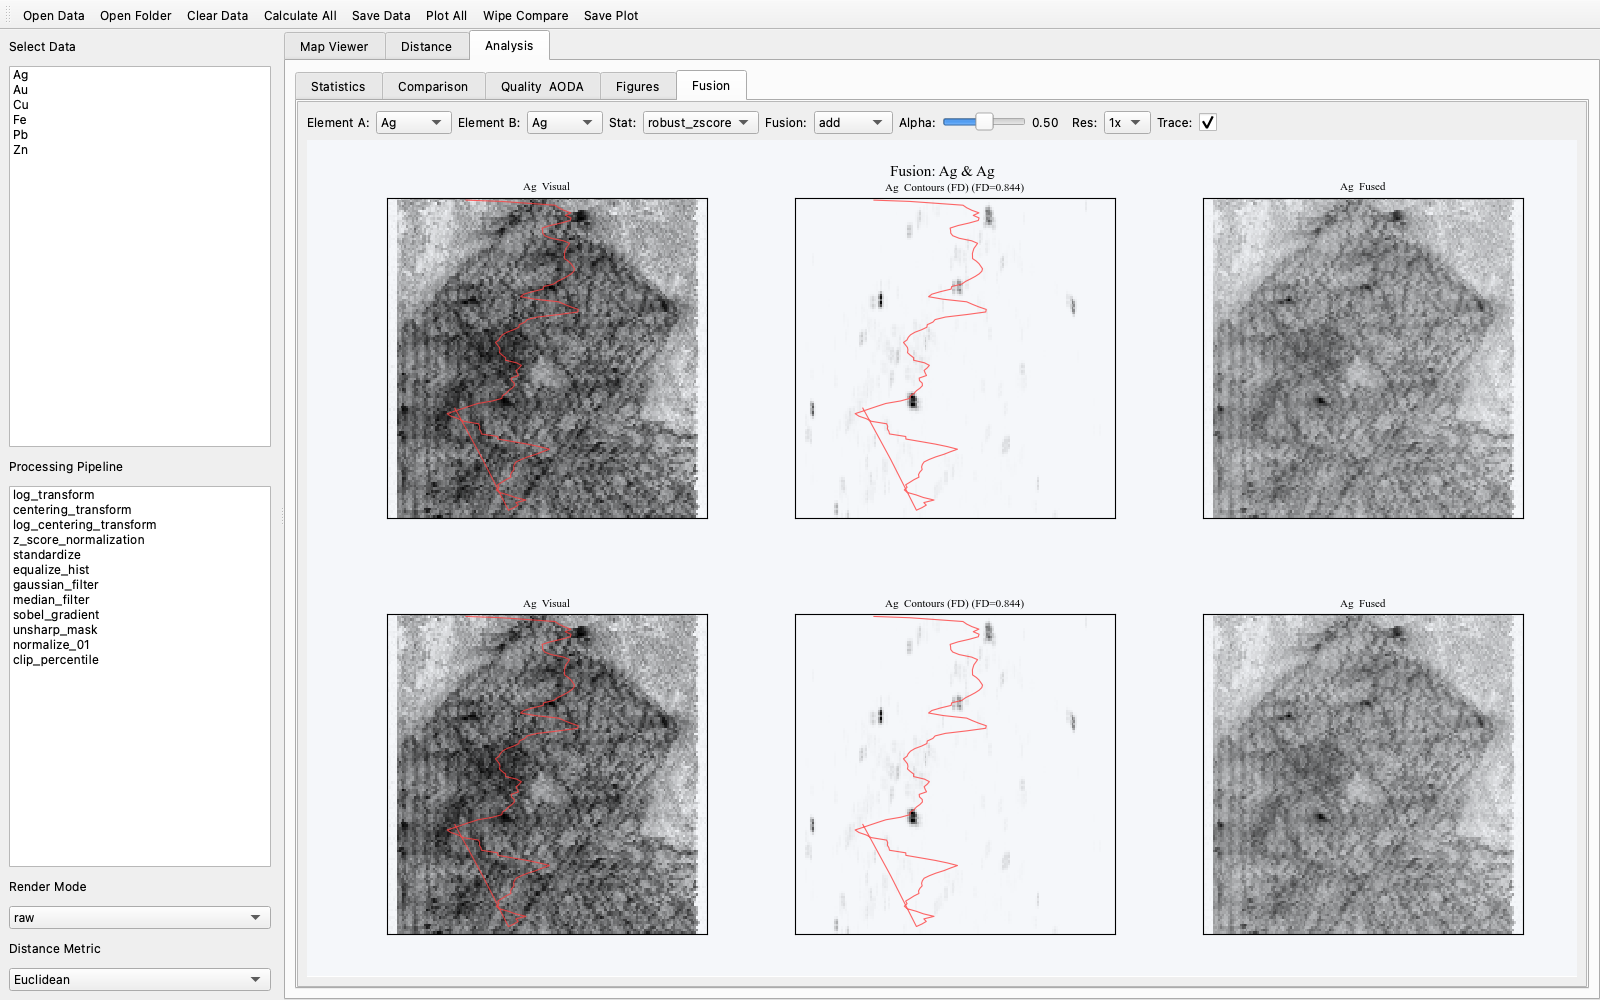
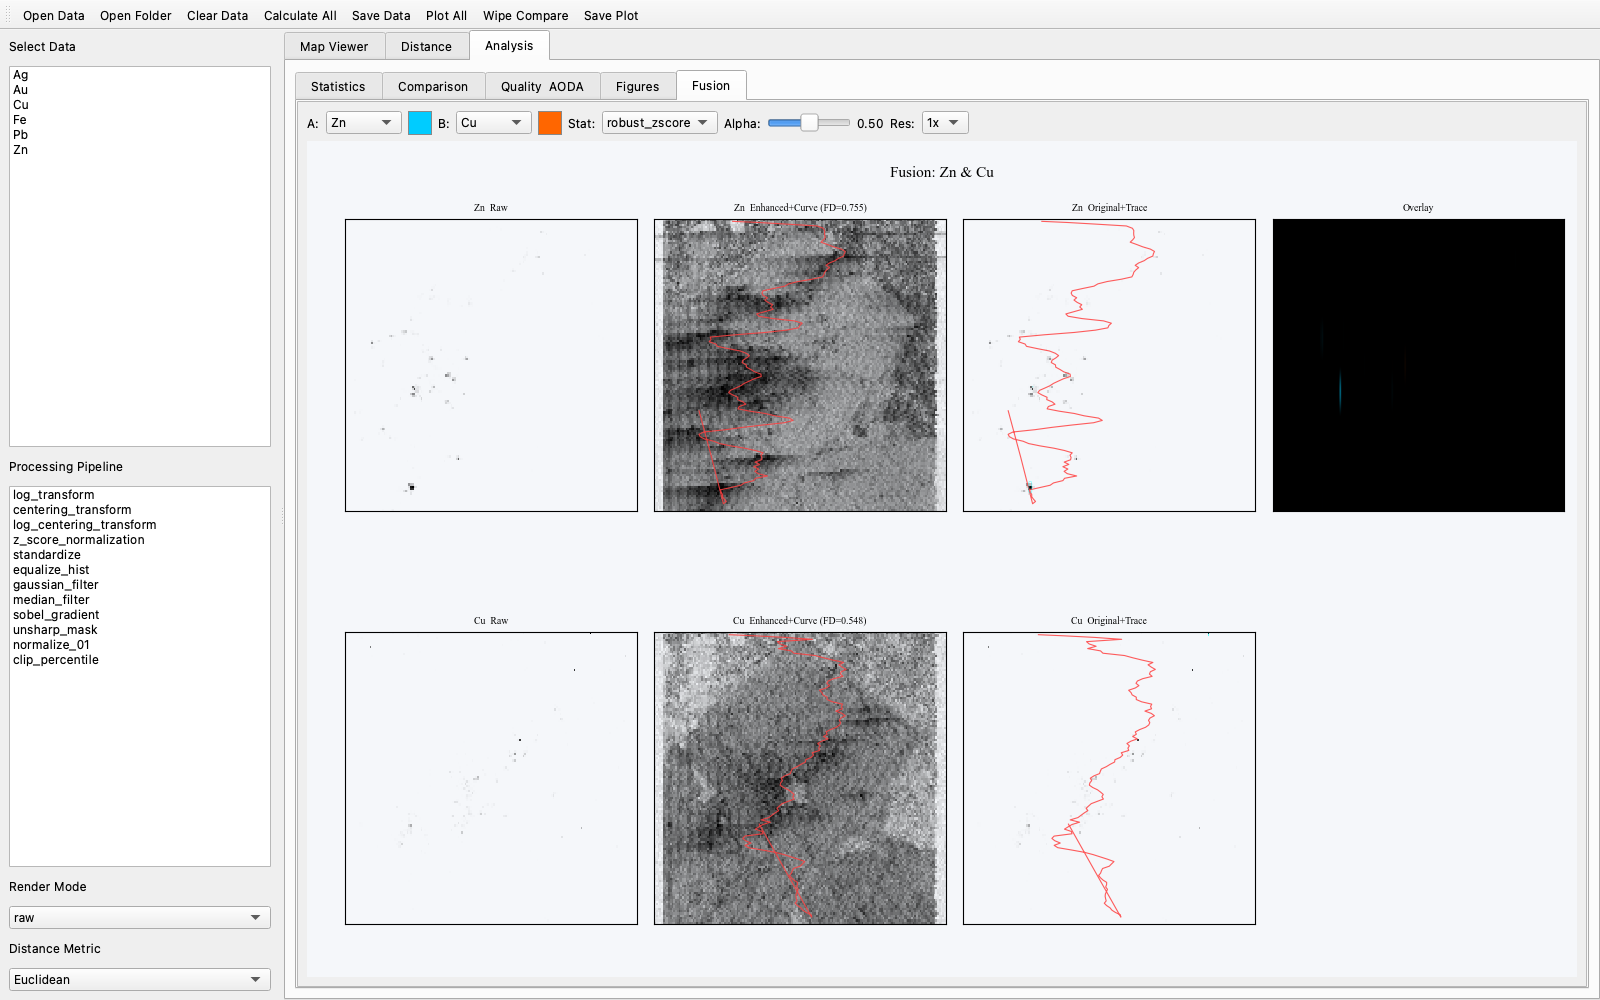
v1.6.0: Fusion 2x4 grid - Raw/Enhanced+Curve/Original+Trace+Contour/Overlay
- 4 columns: raw data / enhanced+curve / original+trace+contour / dual-element color overlay
- Color picker buttons per element (QColorDialog)
- Trajectory curve on col 1&2, contour lines on col 2
- Overlay blends both elements using selected RGB colors
- Screenshot uses Zn & Cu

diff --git a/cpsvisualizer/src/cpsvisualizer/app.py b/cpsvisualizer/src/cpsvisualizer/app.py
@@ -684,20 +684,29 @@ class CPSVisualizer(QMainWindow):
         parent.addTab(sc, 'Figures')
 
     def _build_fusion_pane(self, parent):
-        """Fusion — 2 elements × 3 panels (visual / contours / fused)
-        all square."""
+        """Fusion — 2 elements × 4 columns (raw / enhanced+curve /
+        original+trace+contour / overlay). All square."""
         sc, inner = self._scroll_pane()
         v = QVBoxLayout(inner)
-
         bar = QHBoxLayout()
-        bar.addWidget(QLabel('Element A:'))
+        bar.addWidget(QLabel('A:'))
         self._fus_pick_a = QComboBox()
         self._fus_pick_a.currentTextChanged.connect(self._on_fusion_change)
         bar.addWidget(self._fus_pick_a)
-        bar.addWidget(QLabel('Element B:'))
+        self._fus_color_a = QPushButton(' ')
+        self._fus_color_a.setFixedSize(24, 24)
+        self._fus_color_a.setStyleSheet('background-color: #00CCFF; border:1px solid #888;')
+        self._fus_color_a.clicked.connect(lambda: self._pick_fusion_color('a'))
+        bar.addWidget(self._fus_color_a)
+        bar.addWidget(QLabel('B:'))
         self._fus_pick_b = QComboBox()
         self._fus_pick_b.currentTextChanged.connect(self._on_fusion_change)
         bar.addWidget(self._fus_pick_b)
+        self._fus_color_b = QPushButton(' ')
+        self._fus_color_b.setFixedSize(24, 24)
+        self._fus_color_b.setStyleSheet('background-color: #FF6600; border:1px solid #888;')
+        self._fus_color_b.clicked.connect(lambda: self._pick_fusion_color('b'))
+        bar.addWidget(self._fus_color_b)
         bar.addWidget(QLabel('Stat:'))
         self._fus_stat = QComboBox()
         from cpsvisualizer.fusion import STAT_ENHANCE_NAMES
@@ -705,11 +714,6 @@ class CPSVisualizer(QMainWindow):
         self._fus_stat.setCurrentText('robust_zscore')
         self._fus_stat.currentTextChanged.connect(self._on_fusion_change)
         bar.addWidget(self._fus_stat)
-        bar.addWidget(QLabel('Fusion:'))
-        self._fus_mode = QComboBox()
-        self._fus_mode.addItems(['add', 'multiply', 'exp'])
-        self._fus_mode.currentTextChanged.connect(self._on_fusion_change)
-        bar.addWidget(self._fus_mode)
         bar.addWidget(QLabel('Alpha:'))
         self._fus_alpha = QSlider(Qt.Horizontal)
         self._fus_alpha.setRange(0, 100)
@@ -720,46 +724,42 @@ class CPSVisualizer(QMainWindow):
         self._fus_alpha.valueChanged.connect(
             lambda v: self._fus_alpha_label.setText(f'{v/100:.2f}'))
         bar.addWidget(self._fus_alpha_label)
-        bar.addWidget(QLabel('  Res:'))
+        bar.addWidget(QLabel('Res:'))
         self._fus_res = QComboBox()
         self._fus_res.addItems(['1x', '2x', '4x'])
         self._fus_res.currentTextChanged.connect(self._on_fusion_change)
         bar.addWidget(self._fus_res)
-        bar.addWidget(QLabel('Trace:'))
-        self._fus_trace_cb = QCheckBox()
-        self._fus_trace_cb.setChecked(True)
-        self._fus_trace_cb.stateChanged.connect(self._on_fusion_change)
-        bar.addWidget(self._fus_trace_cb)
         bar.addStretch(1)
         v.addLayout(bar)
-
-        self._fus_canvas = FigureCanvas(Figure(figsize=(16, 12), dpi=self.dpi))
+        self._fus_canvas = FigureCanvas(Figure(figsize=(20, 12), dpi=self.dpi))
         _install_figure_export(self._fus_canvas, 'cps_fusion')
         self._fus_canvas.setSizePolicy(QSizePolicy.Expanding, QSizePolicy.Expanding)
-        self._fus_canvas.setMinimumHeight(700)
+        self._fus_canvas.setMinimumHeight(750)
         v.addWidget(self._fus_canvas)
-
         parent.addTab(sc, 'Fusion')
-
+    def _pick_fusion_color(self, which):
+        from PySide6.QtWidgets import QColorDialog
+        btn = self._fus_color_a if which == 'a' else self._fus_color_b
+        current = btn.palette().button().color()
+        color = QColorDialog.getColor(current, self, 'Pick overlay color')
+        if color.isValid():
+            btn.setStyleSheet(f'background-color: {color.name()}; border:1px solid #888;')
+            self._on_fusion_change()
     def _on_fusion_change(self):
         if self.df_name_list:
             self._fill_fusion_picks()
             self._render_fusion()
-
     def _fill_fusion_picks(self):
         for p in (self._fus_pick_a, self._fus_pick_b):
             cur = p.currentText()
-            p.blockSignals(True)
-            p.clear()
+            p.blockSignals(True); p.clear()
             p.addItems(self.df_name_list)
-            if cur in self.df_name_list:
-                p.setCurrentText(cur)
+            if cur in self.df_name_list: p.setCurrentText(cur)
             p.blockSignals(False)
         if len(self.df_name_list) >= 2 and not self._fus_pick_b.currentText():
             self._fus_pick_b.setCurrentIndex(1)
-
     def _render_fusion(self):
-        from cpsvisualizer.fusion import STAT_ENHANCE, FUSION_FUNCTIONS
+        from cpsvisualizer.fusion import STAT_ENHANCE
         from cpsvisualizer.core import log_transform, equalize_hist
         from scipy.ndimage import sobel, gaussian_filter, zoom
         na = self._fus_pick_a.currentText()
@@ -767,36 +767,33 @@ class CPSVisualizer(QMainWindow):
         if not na or not nb or na not in self.df_name_list or nb not in self.df_name_list:
             return
         zf = int(self._fus_res.currentText().replace('x', ''))
-        fm = self._fus_mode.currentText()
-        al = self._fus_alpha.value() / 100.0
         sn = self._fus_stat.currentText()
-
+        # extract colors from button style
+        import re
+        self._fus_colors = {}
+        for tag, btn in [('a', self._fus_color_a), ('b', self._fus_color_b)]:
+            m = re.search(r'#[0-9a-fA-F]{6}', btn.styleSheet())
+            self._fus_colors[tag] = m.group() if m else ('#00CCFF' if tag == 'a' else '#FF6600')
         self._fus_data = {'a': [], 'b': []}
         for tag, el in [('a', na), ('b', nb)]:
             data = self.df_list[self.df_name_list.index(el)].to_numpy().copy()
+            raw = np.nan_to_num(data.astype(float), nan=0, posinf=0, neginf=0)
+            raw = (raw - raw.min()) / (raw.max() - raw.min() + 1e-10)
             V = equalize_hist(log_transform(data))
             V = (V - V.min()) / (V.max() - V.min() + 1e-10)
-            d2 = np.nan_to_num(data.astype(float), nan=0, posinf=0, neginf=0)
-            d2 = gaussian_filter(d2, sigma=1.0)
+            d2 = gaussian_filter(np.nan_to_num(data.astype(float), nan=0, posinf=0, neginf=0), sigma=1.0)
             E = np.hypot(sobel(d2, axis=0), sobel(d2, axis=1))
             E = (E - E.min()) / (E.max() - E.min() + 1e-10)
             tx, ty, fd = self._compute_trajectory(data)
-            S = STAT_ENHANCE[sn](data.astype(np.float64))
-            S = (S - S.min()) / (S.max() - S.min() + 1e-10)
-            F = FUSION_FUNCTIONS[fm](V, S, al)
-            F = (F - F.min()) / (F.max() - F.min() + 1e-10)
             if zf > 1:
+                raw = zoom(raw, zf, order=3)
                 V = zoom(V, zf, order=3); E = zoom(E, zf, order=3)
-                F = zoom(F, zf, order=3)
-            self._fus_data[tag] = [V, E, F, tx, ty, fd, el]
+            self._fus_data[tag] = [raw, V, E, tx, ty, fd, el]
         self._render_fusion_display()
-
     def _compute_trajectory(self, data):
-        """Row-wise weighted centroid path + box-counting fractal dimension."""
         d = np.nan_to_num(np.asarray(data, dtype=float),
                           nan=0.0, posinf=0.0, neginf=0.0)
         rows, cols = d.shape
-        row_idx = np.arange(rows)
         col_weights = d.sum(axis=1)
         valid = col_weights > 0
         if valid.sum() < 3:
@@ -805,7 +802,7 @@ class CPSVisualizer(QMainWindow):
         centroid_x = np.divide(centroid_x, col_weights,
                                out=np.full_like(centroid_x, cols/2),
                                where=col_weights > 0)
-        centroid_y = row_idx.astype(float)
+        centroid_y = np.arange(rows).astype(float)
         window = max(3, int(rows * 0.05))
         kernel = np.ones(window) / window
         cx = np.convolve(centroid_x, kernel, mode='same')
@@ -832,43 +829,75 @@ class CPSVisualizer(QMainWindow):
         except Exception:
             fdim = 0.0
         return cx, cy, fdim
-
     def _render_fusion_display(self, _=None):
         if not hasattr(self, '_fus_data') or not self._fus_data.get('a'):
             return
         fig = self._fus_canvas.figure
         fig.clear(); fig.patch.set_facecolor(FIG_BG)
         from matplotlib.gridspec import GridSpec
-        gs = GridSpec(2, 3, figure=fig, wspace=0.08, hspace=0.30,
-                      left=0.04, right=0.98, top=0.93, bottom=0.05)
-        show_tr = self._fus_trace_cb.isChecked()
-        panels = ['Visual', 'Contours (FD)', 'Fused']
+        from matplotlib.colors import to_rgba
+        gs = GridSpec(2, 4, figure=fig, wspace=0.06, hspace=0.25,
+                      left=0.03, right=0.99, top=0.93, bottom=0.04)
+        cols = ['Raw', 'Enhanced+Curve', 'Original+Trace', 'Overlay']
+        colors = self._fus_colors
+        da = self._fus_data['a']; db = self._fus_data['b']
+        raw_a, raw_b = da[0], db[0]
+        mr = min(raw_a.shape[0], raw_b.shape[0])
+        mc = min(raw_a.shape[1], raw_b.shape[1])
+        ca = np.array(to_rgba(colors['a']))[:3]
+        cb = np.array(to_rgba(colors['b']))[:3]
+        overlay = np.zeros((mr, mc, 3))
+        for ch in range(3):
+            overlay[:, :, ch] = (raw_a[:mr, :mc] * ca[ch] +
+                                 raw_b[:mr, :mc] * cb[ch])
+        overlay = np.clip(overlay / overlay.max() if overlay.max() > 0 else overlay, 0, 1)
         for row_i, tag in enumerate(['a', 'b']):
-            V, E, Fu, tx, ty, fd, el = self._fus_data[tag]
-            for col_j in range(3):
+            el_raw, V, E, tx, ty, fd, el = self._fus_data[tag]
+            for col_j in range(4):
                 ax = fig.add_subplot(gs[row_i, col_j])
                 ax.set_facecolor(FIG_BG)
-                arr_disp = _downsample([V, E, Fu][col_j], 180, 180)
+                if col_j == 3:
+                    if row_i == 1:
+                        ax.axis('off'); continue
+                    from scipy.ndimage import zoom as _zoom
+                    h, w = overlay.shape[:2]
+                    z_r = min(180/h, 180/w)
+                    if z_r < 1:
+                        overlay_disp = _zoom(overlay, (z_r, z_r, 1), order=1)
+                    else:
+                        overlay_disp = overlay
+                    ax.imshow(np.clip(overlay_disp, 0, 1), aspect='auto')
+                    ax.set_aspect(_square_aspect(*overlay_disp.shape[:2]),
+                                  adjustable='box', anchor='C')
+                    ax.set_title('Overlay', fontsize=7)
+                    ax.set_xticks([]); ax.set_yticks([])
+                    continue
+                if col_j == 0:
+                    arr = el_raw
+                elif col_j == 1:
+                    arr = V
+                else:
+                    arr = el_raw
+                arr_disp = _downsample(arr, 180, 180)
                 s, lo, hi = display_scale(arr_disp, 0, 100)
                 ax.imshow(s, cmap=ink_colormap(), vmin=lo, vmax=hi,
                           aspect='auto', interpolation='nearest')
-                if show_tr and col_j < 2 and len(tx) > 2:
-                    sx = tx * (arr_disp.shape[1] / V.shape[1])
-                    sy = ty * (arr_disp.shape[0] / V.shape[0])
-                    ax.plot(sx, sy, color='#FF4040', linewidth=0.8, alpha=0.8)
+                if col_j >= 1 and len(tx) > 2:
+                    sx = tx * (arr_disp.shape[1] / arr.shape[1])
+                    sy = ty * (arr_disp.shape[0] / arr.shape[0])
+                    ax.plot(sx, sy, color='#FF4040', linewidth=0.8, alpha=0.85)
+                if col_j == 2:
+                    e_disp = _downsample(E, 180, 180)
+                    ax.contour(e_disp, levels=[0.3, 0.6, 0.9],
+                               colors='cyan', linewidths=0.4, alpha=0.6)
                 ax.set_aspect(_square_aspect(*arr_disp.shape),
                               adjustable='box', anchor='C')
-                ttl = f'{el}  {panels[col_j]}'
+                ttl = f'{el}  {cols[col_j]}'
                 if col_j == 1 and fd: ttl += f' (FD={fd:.3f})'
-                ax.set_title(ttl, fontsize=8)
+                ax.set_title(ttl, fontsize=7)
                 ax.set_xticks([]); ax.set_yticks([])
-        fig.suptitle(f'Fusion: {self._fus_data["a"][6]} &'
-                     f' {self._fus_data["b"][6]}',
-                     fontsize=11, y=0.97)
+        fig.suptitle(f'Fusion: {da[6]} & {db[6]}', fontsize=11, y=0.97)
         self._fus_canvas.draw()
-    # ------------------------------------------------------------------
-    # Helpers
-    # ------------------------------------------------------------------
     def _selected_data_indices(self):
         return [self.df_name_list.index(it.text())
                 for it in self._data_sel.selectedItems()]

diff --git a/cpsvisualizer/src/setup.py b/cpsvisualizer/src/setup.py
@@ -15,7 +15,7 @@ except Exception:
 
 setup(
     name='cpsvisualizer',
-    version='1.5.5',
+    version='1.6.0',
     description='CPS-Visualizer: Visualization, similarity measurement, and statistical analysis of LA-ICP-MS surface scan data.',
     long_description=README,
     long_description_content_type='text/markdown',

diff --git a/screenshot/make_screenshots.py b/screenshot/make_screenshots.py
@@ -156,6 +156,8 @@ _load_into(geo_files)
 w._render_sel.setCurrentText('raw'); w._view_idx = 0
 w._analysis_tabs.setCurrentIndex(4)
 w._analysis_selected(4)
+w._fus_pick_a.setCurrentText('Zn')
+w._fus_pick_b.setCurrentText('Cu')
 grab('15_fusion.png')
 
 # 11_comparison: one screenshot per DataSample sub-directory (Geology,
